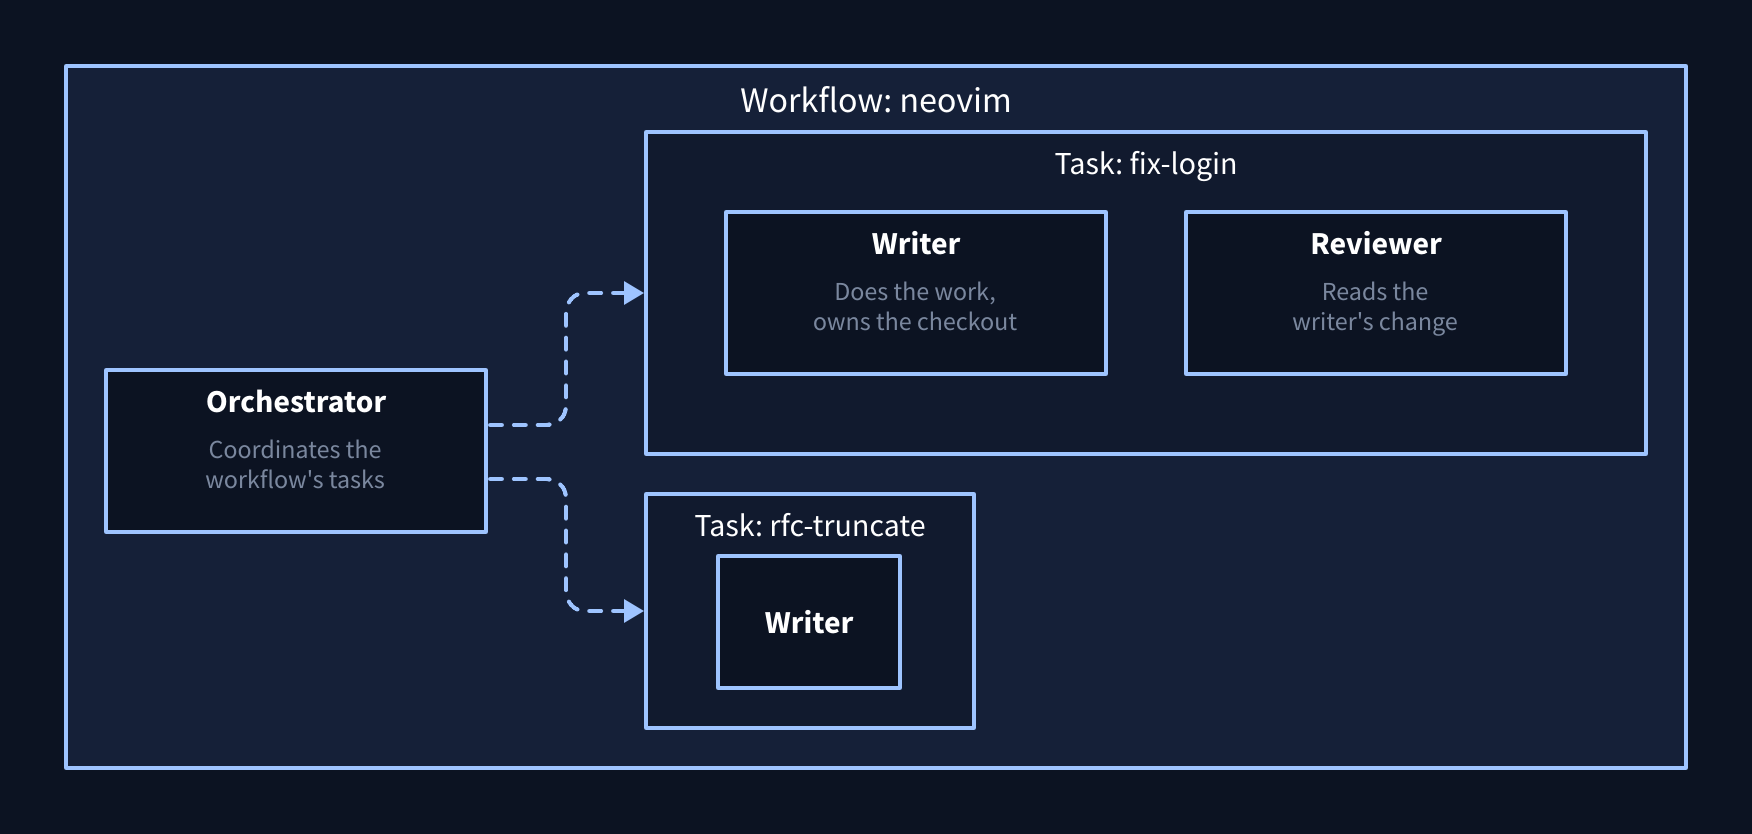
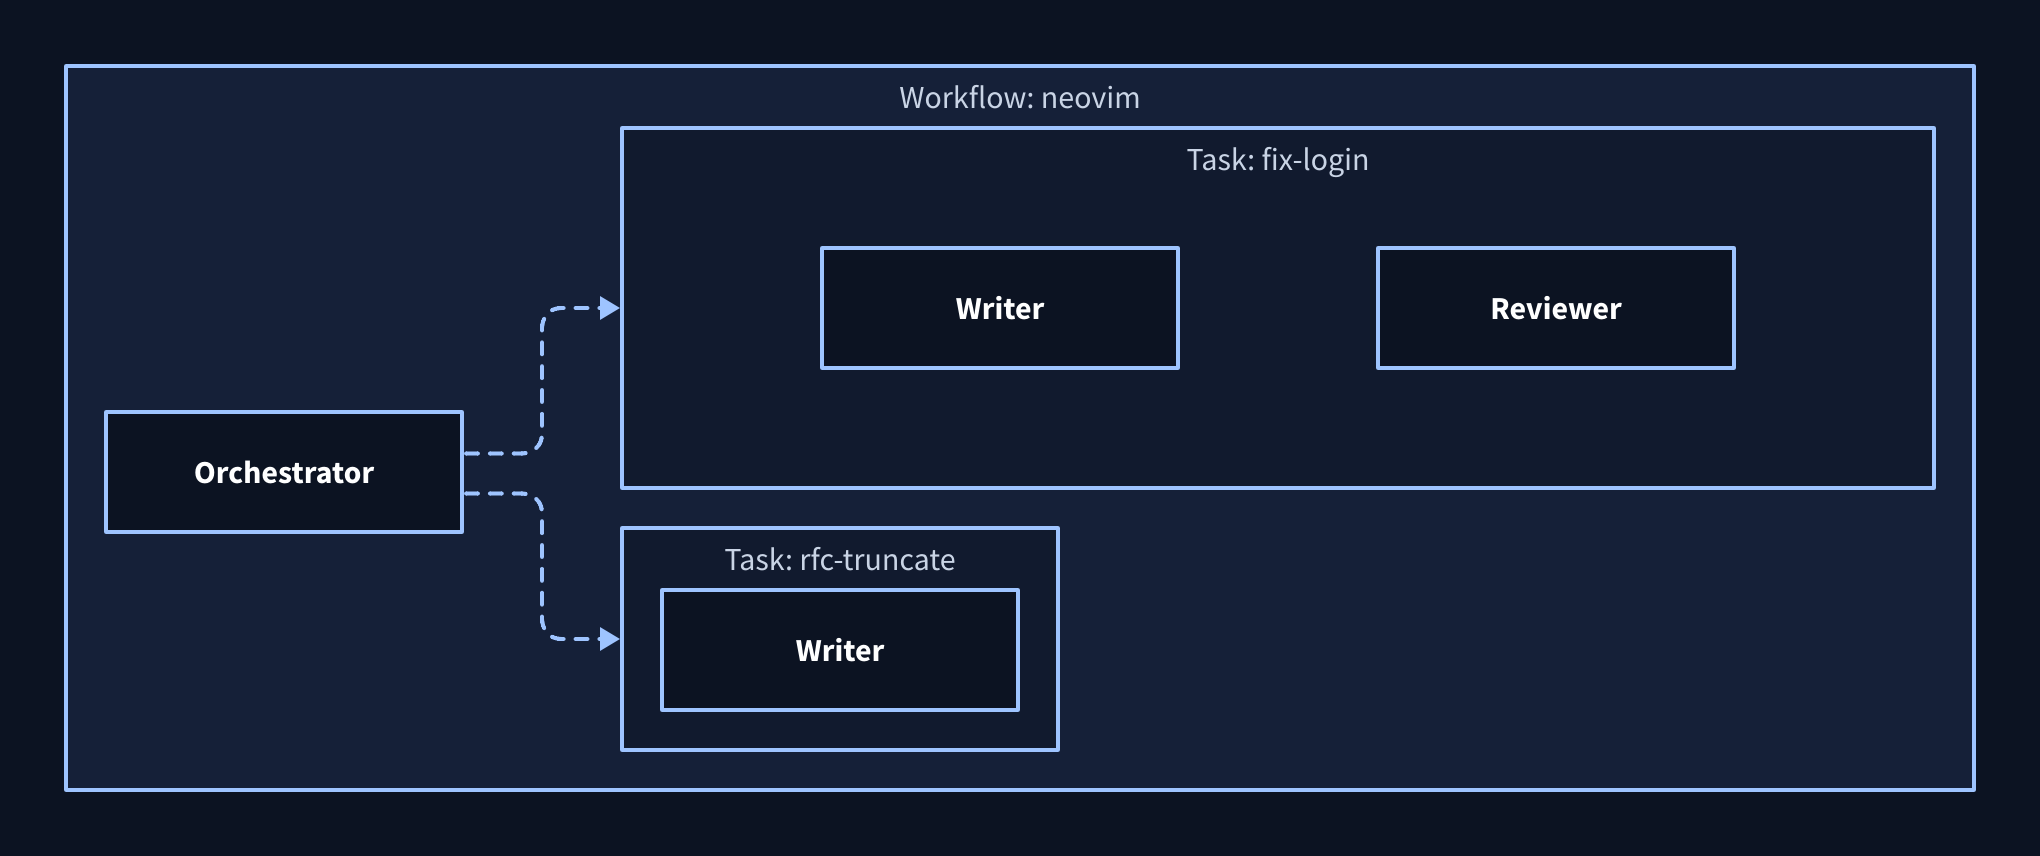
docs: draw every diagram shape from shared theme classes

diff --git a/AGENTS.md b/AGENTS.md
@@ -32,9 +32,11 @@ instance makes from a script of keypresses under `recordings/`:
 The record-komrad skill under `.claude/skills` says how to write the script and attach the gif.
 
 A diagram in the docs is a D2 file under `docs/diagrams`, never ASCII art. Each one imports
-`_theme.d2` for the site's colours. A box names its part in a capitalised title, and a box with
-a second line takes `class: box` and holds that line in a child with `class: note`. Each renders
-to `docs/public/diagrams/<name>.png`:
+`_theme.d2` and draws every shape from its classes: `leaf` for a box, `store` for a database,
+`group` for a box holding others, `more` for an elided run, `blank` for an empty grid cell and
+`dashed` for a loose edge. A box names its part in a short capitalised title and nothing more,
+and the prose around the diagram says the rest. Each renders to
+`docs/public/diagrams/<name>.png`:
 
     mise run docs:diagram [name...]
 
